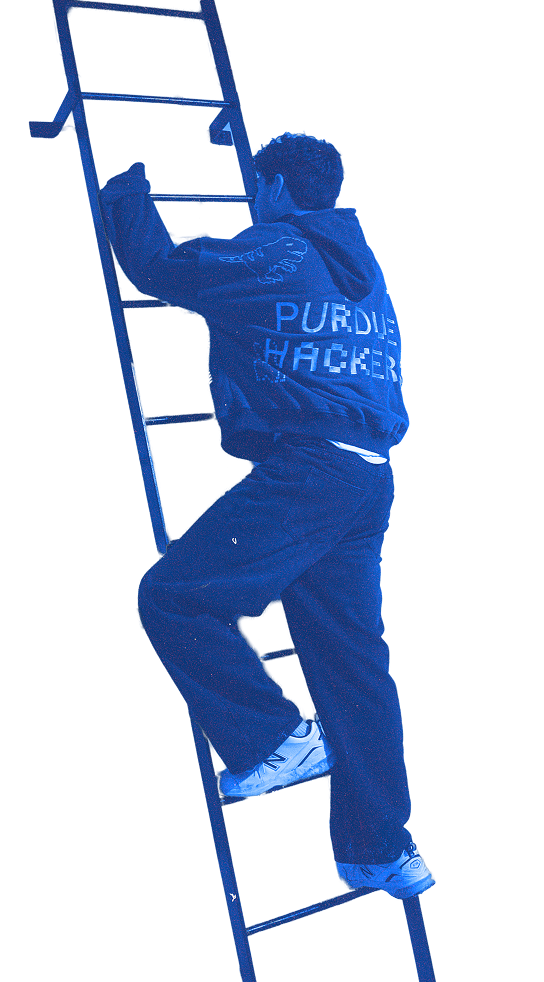
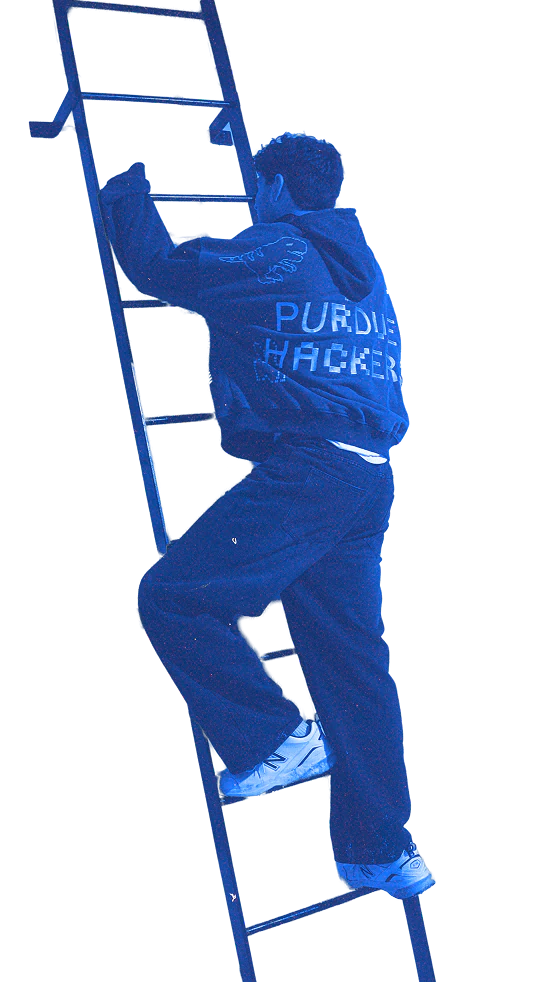
Fix webhook races and checkout text, add SEO, speed up the home page
- Process paid orders one at a time, and keep only the oldest row if
  concurrent webhook deliveries still create duplicates
- Count each Stripe session once in the day totals
- Make typed text in the Stripe payment form visible on the dark theme
- Page titles, descriptions, canonical and Open Graph tags, product
  structured data, robots.txt and sitemap.xml
- Load Stripe.js only on /preorder, preload fonts, serve WebP images
  and a smaller hero photo

diff --git a/src/scripts/notion.ts b/src/scripts/notion.ts
@@ -6,7 +6,7 @@ import { ORDER_SCHEMA, TOTALS_SCHEMA, dayTotals, orderDay, orderProperties, tota
 const NOTION_VERSION = "2022-06-28";
 
 type Session = Parameters<typeof orderProperties>[0];
-type Page = { id: string; properties: Parameters<typeof dayTotals>[0][number]["properties"] };
+type Page = { id: string; created_time: string; properties: Parameters<typeof dayTotals>[0][number]["properties"] };
 
 const notion = async <T>(path: string, init: { method?: string; body?: unknown } = {}): Promise<T> => {
   const token = import.meta.env.NOTION_TOKEN;
@@ -60,6 +60,29 @@ const queryAll = async (databaseId: string, filter: unknown) => {
   return rows;
 };
 
+/**
+ * Rows that should be one row (the same order, or the same day's totals) but were written
+ * twice at the same moment, e.g. by two server instances: keeps the oldest and moves the rest
+ * to Notion's trash. Oldest by creation time, then ID, so every writer keeps the same row.
+ */
+const keepOldest = async (rows: Page[]) => {
+  const [keep, ...extra] = [...rows].sort(
+    (a, b) => a.created_time.localeCompare(b.created_time) || a.id.localeCompare(b.id),
+  );
+  await Promise.all(extra.map((row) => notion(`pages/${row.id}`, { method: "PATCH", body: { archived: true } })));
+  return keep;
+};
+
+// One order at a time per server instance. Stripe can deliver an event twice at once, and two
+// orders can land together; run side by side, each would miss the other's rows and write a
+// duplicate. keepOldest covers the same race across instances.
+let queue: Promise<unknown> = Promise.resolve();
+const oneAtATime = <T>(task: () => Promise<T>): Promise<T> => {
+  const run = queue.then(task, task);
+  queue = run.catch(() => {});
+  return run;
+};
+
 const ordersDatabase = () => {
   const id = import.meta.env.NOTION_ORDERS_DATABASE_ID;
   if (!id) throw new Error("NOTION_ORDERS_DATABASE_ID is not set");
@@ -70,20 +93,20 @@ const ordersDatabase = () => {
  * Adds the order to the pickup database unless it's already there. Stripe can send the same
  * event more than once, so the Stripe session ID is checked first. Returns false for a repeat.
  */
-export const recordOrder = async (session: Session) => {
+const recordOrder = async (session: Session) => {
   const databaseId = ordersDatabase();
   const title = await prepare(databaseId, ORDER_SCHEMA);
+  const bySession = { property: "Stripe session", rich_text: { equals: session.id } };
 
-  const existing = await notion<{ results: unknown[] }>(`databases/${databaseId}/query`, {
-    method: "POST",
-    body: { filter: { property: "Stripe session", rich_text: { equals: session.id } }, page_size: 1 },
-  });
-  if (existing.results.length) return false;
+  if ((await queryAll(databaseId, bySession)).length) return false;
 
   await notion("pages", {
     method: "POST",
     body: { parent: { database_id: databaseId }, properties: orderProperties(session, title) },
   });
+  // the same event may have been written at this moment on another server instance
+  const rows = await queryAll(databaseId, bySession);
+  if (rows.length > 1) await keepOldest(rows);
   return true;
 };
 
@@ -93,7 +116,7 @@ export const recordOrder = async (session: Session) => {
  * adding on means a retried event or two orders at once can't throw the numbers off; the
  * latest order's day is always exact. Does nothing if NOTION_TOTALS_DATABASE_ID isn't set.
  */
-export const updateDayTotals = async (session: Session) => {
+const updateDayTotals = async (session: Session) => {
   const totalsId = import.meta.env.NOTION_TOTALS_DATABASE_ID;
   if (!totalsId) return;
   const day = orderDay(session);
@@ -104,7 +127,30 @@ export const updateDayTotals = async (session: Session) => {
   ]);
   const properties = totalsProperties(day, dayTotals(orders, session), title);
 
-  const [row] = await queryAll(totalsId, { property: title, title: { equals: day } });
-  if (row) await notion(`pages/${row.id}`, { method: "PATCH", body: { properties } });
-  else await notion("pages", { method: "POST", body: { parent: { database_id: totalsId }, properties } });
+  const byDay = { property: title, title: { equals: day } };
+  const rows = await queryAll(totalsId, byDay);
+  if (rows.length) {
+    const row = await keepOldest(rows);
+    await notion(`pages/${row.id}`, { method: "PATCH", body: { properties } });
+    return;
+  }
+  await notion("pages", { method: "POST", body: { parent: { database_id: totalsId }, properties } });
+  // the day's first two orders may have come in together on two server instances
+  const made = await queryAll(totalsId, byDay);
+  if (made.length > 1) {
+    const row = await keepOldest(made);
+    await notion(`pages/${row.id}`, { method: "PATCH", body: { properties } });
+  }
 };
+
+/**
+ * Records a paid order in the pickup database (unless it's already there) and recounts its
+ * day in the totals database. Returns false for an order that was already recorded; its day is
+ * recounted anyway, so a retry finishes totals that failed the first time.
+ */
+export const recordPaidOrder = (session: Session) =>
+  oneAtATime(async () => {
+    const added = await recordOrder(session);
+    await updateDayTotals(session);
+    return added;
+  });

diff --git a/src/scripts/preorder-checkout.ts b/src/scripts/preorder-checkout.ts
@@ -1,5 +1,6 @@
 // Stripe embedded payment form for /preorder.
-// Stripe.js is loaded from js.stripe.com in layout.astro (never bundled — PCI requirement).
+// Stripe.js always comes from js.stripe.com (never bundled: PCI requirement). It's ~300 KB, so
+// only checkout pages load it, starting as soon as one opens rather than in every page's head.
 
 import { clearCart, readCart } from "./cart";
 
@@ -25,9 +26,11 @@ declare global {
   }
 }
 
-// Matches preorder.css: black page, flat white square inputs, PolySans,
-// cream button like "next", yellow (#ffcd38) selection accent like the item cards.
-// The form SDK only accepts theme/labels/inputs/variables (no `rules`).
+// Matches preorder.css: black page, square inputs, PolySans, cream button like "next",
+// yellow (#ffcd38) selection accent like the item cards.
+// The form SDK only accepts theme/labels/inputs/variables (no `rules`), and typed text,
+// headings and address suggestions all take colorText. So the inputs are dark with white
+// text: white inputs made everything typed into them white on white.
 const FONT_BASE = "https://f3ibyzhjurhjiwis.public.blob.vercel-storage.com";
 const fonts = [
   { family: "PolySans Neutral", src: `url(${FONT_BASE}/PolySans-Neutral.woff2)`, weight: "400" },
@@ -47,16 +50,17 @@ const appearance = {
     spacingUnit: "4px",
     borderRadius: "0px",
     colorPrimary: "#ffcd38",
-    colorBackground: "#ffffff",
+    colorBackground: "#000000",
     colorText: "#ffffff",
     colorTextSecondary: "rgba(255, 255, 255, 0.7)",
-    colorTextPlaceholder: "rgba(17, 17, 17, 0.45)",
+    colorTextPlaceholder: "rgba(255, 255, 255, 0.4)",
     colorDanger: "#ff8a8a",
     colorSuccess: "#ffcd38",
-    iconColor: "#111111",
+    iconColor: "#ffffff",
     labelColorText: "#ffffff",
     labelSpacing: "6px",
-    inputColorBorder: "transparent",
+    inputColorBorder: "rgba(255, 255, 255, 0.5)",
+    inputFocusColorBorder: "#ffffff",
     inputBoxShadow: "none",
     focusOutline: "2px solid #ffffff",
     focusBoxShadow: "none",
@@ -65,19 +69,33 @@ const appearance = {
     buttonColorText: "#000000",
     buttonBoxShadow: "none",
     buttonFontWeight: "400",
-    // payment method rows sit on the white block, so their text is dark
-    accordionItemLabelColorText: "#111111",
-    accordionItemLabelSelectedColorText: "#111111",
-    accordionItemTriggerColor: "#111111",
-    accordionItemTriggerSelectedColor: "#111111",
-    accordionItemTriggerHoverColor: "#111111",
   },
+};
+
+const STRIPE_JS = "https://js.stripe.com/dahlia/stripe.js";
+let stripeJs: Promise<NonNullable<Window["Stripe"]>> | null = null;
+
+const loadStripeJs = () => {
+  if (window.Stripe) return Promise.resolve(window.Stripe);
+  stripeJs ??= new Promise((resolve, reject) => {
+    const script = document.createElement("script");
+    script.src = STRIPE_JS;
+    script.async = true;
+    script.onload = () => (window.Stripe ? resolve(window.Stripe) : reject(new Error("Stripe.js loaded without Stripe")));
+    script.onerror = () => reject(new Error("Stripe.js didn't load"));
+    document.head.append(script);
+  });
+  // a failed load (offline, blocked) can be tried again on the next "next"
+  stripeJs.catch(() => (stripeJs = null));
+  return stripeJs;
 };
 
 const initCheckout = () => {
   const form = document.querySelector<HTMLFormElement>(".preorder__form");
   const checkout = document.querySelector<HTMLElement>(".preorder__checkout");
   if (!form || !checkout) return;
+  // fetch it while the buyer fills in their name and email
+  loadStripeJs().catch(() => {});
 
   const error = form.querySelector<HTMLElement>("[data-preorder-error]");
   const message = checkout.querySelector<HTMLElement>("[data-checkout-message]");
@@ -139,7 +157,11 @@ const initCheckout = () => {
       ? { items, shirt_size: data.get("shirt_size"), sock_size: data.get("sock_size") }
       : { lines };
 
-    if (!window.Stripe) {
+    let Stripe: NonNullable<Window["Stripe"]>;
+    try {
+      Stripe = await loadStripeJs();
+    } catch (loadError) {
+      console.error("Stripe.js error:", loadError);
       fail("checkout isn't available right now");
       return;
     }
@@ -168,7 +190,7 @@ const initCheckout = () => {
     showCheckout();
     let loaded: Awaited<ReturnType<CheckoutFormSdk["loadActions"]>>;
     try {
-      const sdk = window.Stripe(session.publishable_key).initCheckoutFormSdk({
+      const sdk = Stripe(session.publishable_key).initCheckoutFormSdk({
         clientSecret: Promise.resolve(session.client_secret),
         appearance,
         fonts,

diff --git a/src/scripts/preorder-items-data.ts b/src/scripts/preorder-items-data.ts
@@ -32,7 +32,7 @@ export const products: Product[] = [
     description: [
       "a black tee with an ascii side-scroller across the front: a little hacker at START!, platforms, fish and birds along the way.",
     ],
-    images: [{ src: "/preorder/figma-shirt.png", alt: "Black t-shirt with a small ascii side-scroller game printed across the front" }],
+    images: [{ src: "/preorder/figma-shirt.webp", alt: "Black t-shirt with a small ascii side-scroller game printed across the front" }],
     sizing: "shirt",
   },
   {
@@ -41,7 +41,7 @@ export const products: Product[] = [
     blurb: "black tote, ascii sailboat",
     title: ["SHIP IT", "TOTE"],
     description: ["a black tote with an ascii sailboat on a dotted sea, and SHIP IT. underneath."],
-    images: [{ src: "/preorder/figma-tote.png", alt: "Black tote bag with a yellow ascii sailboat over blue dotted waves and the words SHIP IT." }],
+    images: [{ src: "/preorder/figma-tote.webp", alt: "Black tote bag with a yellow ascii sailboat over blue dotted waves and the words SHIP IT." }],
     oneSize: "one size",
   },
   {
@@ -50,7 +50,7 @@ export const products: Product[] = [
     blurb: "cream crew socks",
     title: ["SHIP IT", "SOCKS"],
     description: ["cream ribbed crew socks with Ship it knit up the side in black."],
-    images: [{ src: "/preorder/figma-socks.png", alt: "Pair of cream crew socks with Ship it knit vertically up the side in black" }],
+    images: [{ src: "/preorder/figma-socks.webp", alt: "Pair of cream crew socks with Ship it knit vertically up the side in black" }],
     sizing: "socks",
   },
   {
@@ -59,7 +59,7 @@ export const products: Product[] = [
     blurb: "creatura + logo charms",
     title: ["CREATURA", "KEYCHAIN"],
     description: ["two charms on a yellow ring: a creatura dino and the purdue hackers logo."],
-    images: [{ src: "/preorder/figma-keychain.png", alt: "Keychain with a grey dinosaur charm and a yellow Purdue Hackers logo charm on a yellow ring" }],
+    images: [{ src: "/preorder/figma-keychain.webp", alt: "Keychain with a grey dinosaur charm and a yellow Purdue Hackers logo charm on a yellow ring" }],
     oneSize: "one size",
     // the creatura charm varies; the glider (Purdue Hackers logo) charm is on every keychain.
     // Figma f2026-drop: frog 416:9, squirrel 416:12.

diff --git a/src/scripts/order-notion.ts b/src/scripts/order-notion.ts
@@ -126,7 +126,8 @@ type NotionProperty = { type: string; number?: number | null };
  * Adds up a day's orders, given their rows in the pickup database (as Notion returns them)
  * and the order that just came in. The new order is counted from the session rather than its
  * row, since Notion's query can lag a moment behind a page it just created; its row, if the
- * query did return it, is skipped by session ID so it isn't counted twice.
+ * query did return it, is skipped by session ID so it isn't counted twice. Every other order
+ * counts once too, even if a duplicate row of it slipped in (see recordOrder in notion.ts).
  */
 export const dayTotals = (
   rows: { properties: Record<string, NotionProperty & { rich_text?: { plain_text: string }[] }> }[],
@@ -134,9 +135,12 @@ export const dayTotals = (
 ): DayTotals => {
   const own = orderCounts(latest);
   const totals: DayTotals = { orders: 1, quantities: { ...own.quantities }, revenue: own.total };
+  const counted = new Set([latest.id]);
   for (const row of rows) {
     const session = row.properties["Stripe session"]?.rich_text?.map((t) => t.plain_text).join("") ?? "";
-    if (session === latest.id) continue;
+    // rows added by hand have no session: each is its own order
+    if (session && counted.has(session)) continue;
+    if (session) counted.add(session);
     totals.orders += 1;
     for (const column of quantityColumns()) totals.quantities[column] += row.properties[column]?.number ?? 0;
     totals.revenue += row.properties.Total?.number ?? 0;

diff --git a/src/scripts/order-notion.test.js b/src/scripts/order-notion.test.js
@@ -85,6 +85,17 @@ test("dayTotals doesn't count the new order twice when the query already returns
   assert.equal(totals.revenue, 25);
 });
 
+test("dayTotals counts a duplicated order once, and rows without a session each once", () => {
+  const latest = { id: "cs_new", amount_total: 500, metadata: { lines: "keychain::1" } };
+  const dupe = row("cs_a", { "Shirt L": 1 }, 25);
+  const byHand = row("", { Tote: 1 }, 15);
+  const totals = dayTotals([dupe, dupe, dupe, byHand, byHand], latest);
+  assert.equal(totals.orders, 4);
+  assert.equal(totals.quantities["Shirt L"], 1);
+  assert.equal(totals.quantities.Tote, 2);
+  assert.equal(totals.revenue, 60);
+});
+
 test("totalsProperties writes one day's row", () => {
   const props = totalsProperties("2026-11-16", { orders: 2, quantities: Object.fromEntries(quantityColumns().map((c) => [c, c === "Tote" ? 4 : 0])), revenue: 60.004 }, "Day");
   assert.deepEqual(props.Day, { title: [{ text: { content: "2026-11-16" } }] });

diff --git a/src/pages/api/stripe-webhook.ts b/src/pages/api/stripe-webhook.ts
@@ -1,6 +1,6 @@
 import type { APIRoute } from 'astro';
 import Stripe from 'stripe';
-import { recordOrder, updateDayTotals } from '../../scripts/notion';
+import { recordPaidOrder } from '../../scripts/notion';
 import { stripeConfig } from '../../scripts/stripe-products';
 
 export const prerender = false;
@@ -36,9 +36,7 @@ export const POST: APIRoute = async ({ request }) => {
   if (session.payment_status !== 'paid') return new Response('Not paid yet', { status: 200 });
 
   try {
-    const added = await recordOrder(session);
-    // also on a repeat: if the totals failed last time, Stripe's retry finishes them now
-    await updateDayTotals(session);
+    const added = await recordPaidOrder(session);
     return new Response(added ? 'Recorded' : 'Already recorded', { status: 200 });
   } catch (error) {
     console.error('Notion order error:', error);

diff --git a/src/pages/sitemap.xml.ts b/src/pages/sitemap.xml.ts
@@ -1,0 +1,16 @@
+import type { APIRoute } from 'astro';
+
+export const prerender = false;
+
+/** the pages worth finding in search; /preorder is a checkout step and is noindex */
+const PAGES = ['/', '/archive'];
+
+export const GET: APIRoute = ({ url }) =>
+  new Response(
+    `<?xml version="1.0" encoding="UTF-8"?>
+<urlset xmlns="http://www.sitemaps.org/schemas/sitemap/0.9">
+${PAGES.map((path) => `  <url><loc>${new URL(path, url.origin).href}</loc></url>`).join('\n')}
+</urlset>
+`,
+    { headers: { 'Content-Type': 'application/xml; charset=utf-8' } },
+  );

diff --git a/src/pages/robots.txt.ts b/src/pages/robots.txt.ts
@@ -1,0 +1,11 @@
+import type { APIRoute } from 'astro';
+
+export const prerender = false;
+
+// The sitemap needs an absolute URL; taking it from the request keeps it right on any domain.
+// /preorder stays crawlable so search engines can read its noindex tag.
+export const GET: APIRoute = ({ url }) =>
+  new Response(
+    ['User-agent: *', 'Disallow: /api/', 'Disallow: /preorder-lab', 'Disallow: /preorder-items', '', `Sitemap: ${url.origin}/sitemap.xml`, ''].join('\n'),
+    { headers: { 'Content-Type': 'text/plain; charset=utf-8' } },
+  );

diff --git a/src/scripts/cart-view.ts b/src/scripts/cart-view.ts
@@ -61,7 +61,7 @@ export const renderCartLines = (
 
       const thumb = document.createElement("img");
       thumb.className = "cart-line__thumb";
-      thumb.src = `/preorder/cutouts/${line.item}.png`; // trimmed, so the item fills its square
+      thumb.src = `/preorder/cutouts/${line.item}.webp`; // trimmed, so the item fills its square
       thumb.alt = "";
 
       const text = document.createElement("div");

diff --git a/src/styles/main.css b/src/styles/main.css
@@ -22,6 +22,7 @@
 @font-face {
   font-family: pixel;
   src: url("/fonts/PixelHackers.woff2") format("woff2");
+  font-display: swap;
 }
 html,
 body {

diff --git a/scripts/cutout-products.py b/scripts/cutout-products.py
@@ -5,7 +5,7 @@ Usage (needs Pillow + numpy):
     python3 scripts/cutout-products.py
 
 Reads  public/preorder/figma-{item}.png  (650x650, white background)
-Writes public/preorder/cutouts/{item}.png  (transparent, trimmed)
+Writes public/preorder/cutouts/{item}.png  (transparent, trimmed) and .webp (what the site loads)
        src/scripts/product-cutouts.json    (size + a convex hit area per item, used as clip-path)
 """
 import json
@@ -114,6 +114,8 @@ def cut(item):
     image = image.crop(box)
     OUT.mkdir(parents=True, exist_ok=True)
     image.save(OUT / f"{item}.png", optimize=True)
+    # what the site loads: a quarter of the PNG's size
+    image.save(OUT / f"{item}.webp", quality=85, alpha_quality=90, method=6)
 
     # convex hull of the opaque pixels, as clip-path percentages, so hovering the
     # transparent corners of a cutout reaches the item underneath. A ring is left out,
